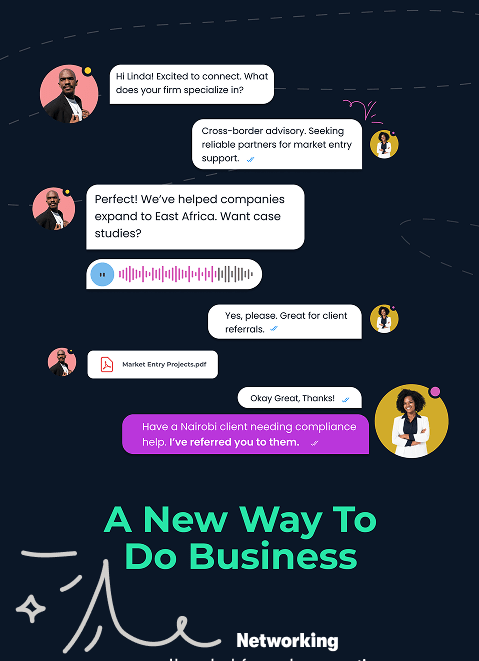
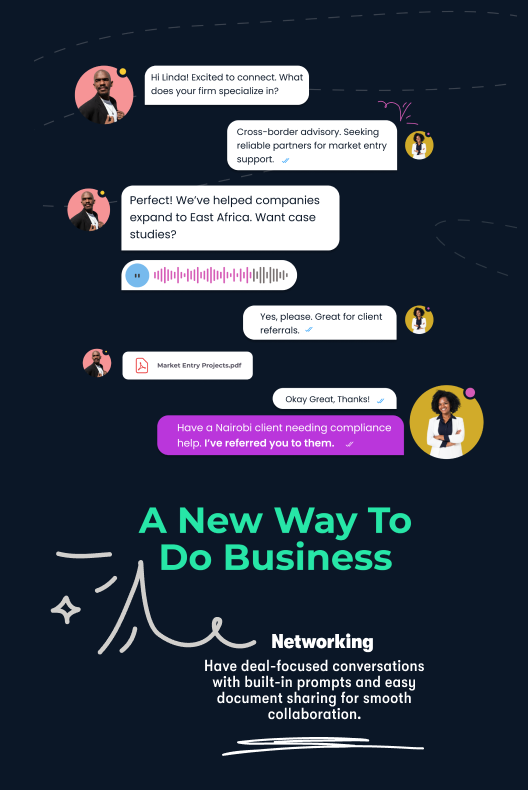
brn deployment phase

diff --git a/public/css/brn.css b/public/css/brn.css
@@ -217,7 +217,6 @@ body {
     margin-right: -1rem;
 }
 
-
 @media screen and (max-width: 580px) {
     .navbar-full.navbar {
         padding: 1rem 0.5rem !important;
@@ -420,18 +419,23 @@ body {
         align-items: center;
         width: 100% !important;
         /* margin-left: 20px; */
+        padding: 20px;
     }
     .image-grid .first,
     .image-grid .second {
-        height: 336px;
-        width: 409px;
+        height: 300px;
+        width: 320px;
         border: 3px solid #fff;
         border-radius: 30px;
         position: relative;
     }
     .image-grid .second .card-image {
-        left: -80px;
+        left: -70px;
         bottom: 40px;
+    }
+    .image-grid .second .card-image img{
+        width: 200px;
+        height: 68px;
     }
 }
 @media (max-width: 500px) {
@@ -444,8 +448,8 @@ body {
     }
     .image-grid .first,
     .image-grid .second {
-        height: 306px;
-        width: 355px;
+        /* height: 306px;
+        width: 355px; */
         border: 3px solid #fff;
         border-radius: 30px;
         position: relative;
@@ -457,7 +461,7 @@ body {
     .image-grid .send-icon {
         position: absolute;
         top: 50px;
-        right: -50px;
+        right: -60px;
         background-color: #1deaa5;
         padding: 10px;
         border-radius: 10px;
@@ -467,7 +471,7 @@ body {
 
 /* =======================================  BRN HOW WE OPERATE SECTION */
 .brn-how-we-operate-section {
-    padding: 60px 10px;
+    padding: 60px 10px 10px 10px;
     text-align: center;
     position: relative;
     overflow: hidden;
@@ -494,13 +498,13 @@ body {
 
 .brn-how-we-operate-section .top-right-bg img,
 .brn-how-we-operate-section .bottom-left-bg img {
-    opacity: 0.5;
+    opacity: 0.3;
 }
 
 .brn-how-we-operate-section .bottom-left-bg {
     position: absolute;
-    bottom: 0;
-    left: 0;
+    bottom: 0px;
+    left: 0px;
     width: 250px;
     height: 250px;
     transform: translate(-6%, 50%);
@@ -609,7 +613,7 @@ body {
     width: 105%;
     height: auto;
     object-position: top;
-    top: -65;
+    top: -75;
     left: 10px;
 }
 .brn-how-we-operate-section .operate-card.card-1 .image2 {
@@ -632,8 +636,11 @@ body {
 }
 
 @media (max-width: 600px) {
+    .brn-how-we-operate-section .card-wrapper{
+        padding: 0 15px;
+    }
     .brn-how-we-operate-section .operate-card {
-        height: 300px !important;
+        height: 280px !important;
     }
     .brn-how-we-operate-section .operate-card.card-1 {
         background-color: transparent;
@@ -746,7 +753,7 @@ body {
         z-index: 1;
     }
     .brn-how-we-operate-section .operate-card.card-3 .card-content {
-        margin: 20px 30px;
+        margin: 20px 10px;
         height: 100%;
         background-color: #c7b5f3;
         border-radius: 0.6rem;
@@ -756,12 +763,12 @@ body {
         flex-direction: column;
     }
     .brn-how-we-operate-section .operate-card.card-3 .top {
-        top: -30;
+        top: -50;
         right: 30px;
     }
 
     .brn-how-we-operate-section .operate-card.card-3 .bottom {
-        bottom: -70px;
+        bottom: -90px;
         left: 40px;
         z-index: 1;
         -webkit-transform: scaleY(-1);
@@ -808,6 +815,7 @@ body {
     letter-spacing: 0.5px;
     margin-bottom: 0;
     font-family: "GT Walsheim Con";
+    max-width: 400px;
 }
 
 .brn-testimonials-section .testimonial-card {
@@ -882,6 +890,23 @@ body {
     .brn-testimonials-section .testimonial-card {
         display: grid;
         grid-template-columns: repeat(2, 1fr);
+    }
+    .brn-testimonials-section .header-row .title-group h2 {
+        font-size: 31px;
+        font-weight: 900;
+        color: #0d4036;
+        line-height: 120%;
+        margin-bottom: 0.5rem;
+        font-family: "GT Walsheim ConB";
+    }
+
+    .brn-testimonials-section .header-row .description p {
+        font-size: 20px;
+        color: #0d4036;
+        line-height: 24px;
+        letter-spacing: 0.5px;
+        margin-bottom: 0;
+        font-family: "GT Walsheim Con";
     }
     .testimonial-card.first-row .text-block {
         background-color: #193e47;
@@ -1105,7 +1130,7 @@ body {
 
 .brn-cta-section .left-content h2 {
     font-weight: 400;
-    font-size: 20px;
+    font-size: 24px;
     font-family: "GT Walsheim ConB";
     letter-spacing: 0.9px;
 }
@@ -1400,18 +1425,19 @@ body {
     }
 
     .brn-how-we-operate-section .bottom-left-bg {
-        width: 600px;
-        height: 900px;
+        width: 300px;
+        height: 500px;
         transform: translate(-35%, 80%);
+        transform: scaleY(-1);
     }
 
     .brn-how-we-operate-section .section-header h4 {
-        font-size: 1.2rem;
+        font-size: 20px;
         font-weight: 900;
     }
 
     .brn-how-we-operate-section .section-header h2 {
-        font-size: 48px;
+        font-size: 60px;
     }
 
     .brn-how-we-operate-section .operate-card {
@@ -1447,10 +1473,11 @@ body {
     .testimonial-card .text-block .ceo-name {
         font-size: 16px;
         font-weight: bold;
+        margin-bottom: 12px;
     }
 
     .testimonial-card .text-block .testimonial-text {
-        font-size: 16px;
+        font-size: 14px;
     }
 
     .brn-testimonials-section .header-row .description {

diff --git a/resources/views/layouts/brn-layout.blade.php b/resources/views/layouts/brn-layout.blade.php
@@ -79,12 +79,12 @@
                 </button>
                 <div class="collapse navbar-collapse justify-content-center" id="navbarNav">
                     <ul class="navbar-nav pt-md-0 pt-3">
-                        <li class="nav-item"><a class="nav-link" href="{{ url('about') }}">Who We Are</a></li>
-                        <li class="nav-item"><a class="nav-link" href="{{ url('services') }}">What We Do</a></li>
-                        <li class="nav-item"><a class="nav-link" href="{{ route('event') }}">Our Events</a></li>
-                        <li class="nav-item"><a class="nav-link" href="{{ route('resource-hub') }}">Resource Hub</a>
+                        <li class="nav-item"><a class="nav-link" href="{{ url('about') }}">Who we are</a></li>
+                        <li class="nav-item"><a class="nav-link" href="{{ url('services') }}">What we do</a></li>
+                        <li class="nav-item"><a class="nav-link" href="{{ route('event') }}">Events</a></li>
+                        <li class="nav-item"><a class="nav-link" href="{{ route('resource-hub') }}">Resource hub</a>
                         </li>
-                        <li class="nav-item"><a class="nav-link" href="{{ url('contact') }}">Let’s Collaborate</a></li>
+                        <li class="nav-item"><a class="nav-link" href="{{ url('brn') }}">Business network</a></li>
                     </ul>
 
                     <div class="d-flex align-items-right mt-5 mobile">
@@ -128,11 +128,11 @@
 
                     <div class="col-md-2 col-lg-2 col-4 footer-links footer-quick-links">
                         <p>Quick Links</p>
-                        <a href="{{ url('about') }}">Who We Are</a>
-                        <a href="{{ url('services') }}">What We Do</a>
+                        <a href="{{ url('about') }}">Who we are</a>
+                        <a href="{{ url('services') }}">What we do</a>
                         <a href="{{ route('event') }}">Events</a>
-                        <a href="{{ route('resource-hub') }}">Resource Hub</a>
-                        <a href="{{ url('contact') }}">Let’s Collaborate</a>
+                        <a href="{{ route('resource-hub') }}">Resource hub</a>
+                        <a href="{{ url('brn') }}">Business network</a>
                     </div>
 
                     <div class="col-md-2 footer-links strategy">

diff --git a/resources/views/brn.blade.php b/resources/views/brn.blade.php
@@ -94,7 +94,7 @@
                         <div class="card-content px-4">
                             <h3>Join the Exclusive Circle</h3>
                             <p>
-                                Apply, get approved, and start your 14-day free trial.
+                                Apply, get approved, and start <span class="d-md-inline d-block">your 14-day free trial.</span>
                             </p>
                         </div>
                         <div class="pt-3">
@@ -183,15 +183,15 @@
         <section class="brn-testimonials-section">
             <div class="">
                 <div class="container">
-                    <div class="row header-row">
+                    <div class="row header-row px-md-0 px-5">
                         <div class="col-12 col-lg-6">
                             <div class="title-group text-left text-lg-start">
                                 <h2>Testimonials.</h2>
                                 <h2>Member Spotlight.</h2>
                             </div>
                         </div>
-                        <div class="col-12 col-lg-6 mt-3 mt-lg-5">
-                            <div class="description text-left">
+                        <div class="col-12 col-lg-6 mt-3 mt-lg-4">
+                            <div class="description text-left d-flex justify-content-end">
                                 <p>
                                     Real success stories from CEOs who’ve grown through the power of referral-based
                                     networking.

diff --git a/resources/views/layouts/includes/navbar.blade.php b/resources/views/layouts/includes/navbar.blade.php
@@ -26,7 +26,7 @@
                                                 Africa promise.</p>
                                         </div>
                                         <div class="col-md-3 line">
-                                            <a href="#" class="d-block mb-3"><b>Business Referral Network</b></a>
+                                            <a href="{{ url('brn') }}" class="d-block mb-3"><b>Business Referral Network</b></a>
                                             <p>Where top CEOs meet, connect, and grow through trusted referrals.</p>
                                         </div>
                                         <div class="col-md-3 line">
@@ -90,7 +90,7 @@
                             <a class="nav-link" href="{{ route('resource-hub') }}">Resource hub</a>
                         </li>
                         <li class="nav-item">
-                            <a class="nav-link" href="{{ url('contact') }}">Let’s collaborate</a>
+                            <a class="nav-link" href="{{ url('brn') }}">Business network</a>
                         </li>
                     </ul>
 
@@ -140,7 +140,7 @@
                         <a class="nav-link" href="{{ route('resource-hub') }}">Resource Hub</a>
                     </li>
                     <li class="nav-item">
-                        <a class="nav-link" href="{{ url('contact') }}">Let’s Collaborate</a>
+                        <a class="nav-link" href="{{ url('brn') }}">Business network</a>
                     </li>
                 </ul>
 
